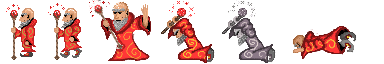
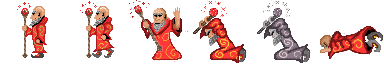
Some Updates

diff --git a/dist/bundle.js b/dist/bundle.js
@@ -112,12 +112,8 @@ class Character {
       return this.walkForward(index)
     }else if(this.job === "knight"){
       return [0, 0, 48, 64, this.ctx.width * 0.85, this.ctx.height * heightFloat + this.ctx.height * 0.3]
-    }else if(this.job === "cleric"){
-      return [0, 0, 47, 64, this.ctx.width * 0.85, this.ctx.height * heightFloat + this.ctx.height * 0.3]
-    }else if(this.job === "archer"){
+    }else {
       return [0, 0, 64, 64, this.ctx.width * 0.85, this.ctx.height * heightFloat + this.ctx.height * 0.3]
-    }else if(this.job === "wizard"){
-      return [0, 0, 42, 64, this.ctx.width * 0.85, this.ctx.height * heightFloat + this.ctx.height * 0.3]
     }
   }
 
@@ -125,12 +121,8 @@ class Character {
     let heightFloat = this.spriteHeight(index)
     if(this.job === "knight"){
       return [48, 0, 48, 64, this.ctx.width * 0.75, this.ctx.height * heightFloat + this.ctx.height * 0.3]
-    }else if(this.job === "cleric"){
-      return [0, 0, 47* 2, 64, this.ctx.width * 0.75, this.ctx.height * heightFloat + this.ctx.height * 0.3]
-    }else if(this.job === "archer"){
+    }else {
       return [0, 0, 64* 2, 64, this.ctx.width * 0.75, this.ctx.height * heightFloat + this.ctx.height * 0.3]
-    }else if(this.job === "wizard"){
-      return [0, 0, 42 * 2, 64, this.ctx.width * 0.75, this.ctx.height * heightFloat + this.ctx.height * 0.3]
     }
   }
 
@@ -276,7 +268,7 @@ class GameRouter {
       this.game.start();
       requestAnimationFrame(this.gameAnimate.bind(this));
 
-    }else if(selection.innerText === "How To Play"){ 
+    }else if(selection.innerText === "How To Play"){
       const menu = new _menu__WEBPACK_IMPORTED_MODULE_0__["default"]("")
       this.tutorial.start(menu)
     }

diff --git a/src/char.js b/src/char.js
@@ -14,12 +14,8 @@ export default class Character {
       return this.walkForward(index)
     }else if(this.job === "knight"){
       return [0, 0, 48, 64, this.ctx.width * 0.85, this.ctx.height * heightFloat + this.ctx.height * 0.3]
-    }else if(this.job === "cleric"){
-      return [0, 0, 47, 64, this.ctx.width * 0.85, this.ctx.height * heightFloat + this.ctx.height * 0.3]
-    }else if(this.job === "archer"){
+    }else {
       return [0, 0, 64, 64, this.ctx.width * 0.85, this.ctx.height * heightFloat + this.ctx.height * 0.3]
-    }else if(this.job === "wizard"){
-      return [0, 0, 42, 64, this.ctx.width * 0.85, this.ctx.height * heightFloat + this.ctx.height * 0.3]
     }
   }
 
@@ -27,12 +23,8 @@ export default class Character {
     let heightFloat = this.spriteHeight(index)
     if(this.job === "knight"){
       return [48, 0, 48, 64, this.ctx.width * 0.75, this.ctx.height * heightFloat + this.ctx.height * 0.3]
-    }else if(this.job === "cleric"){
-      return [0, 0, 47* 2, 64, this.ctx.width * 0.75, this.ctx.height * heightFloat + this.ctx.height * 0.3]
-    }else if(this.job === "archer"){
+    }else {
       return [0, 0, 64* 2, 64, this.ctx.width * 0.75, this.ctx.height * heightFloat + this.ctx.height * 0.3]
-    }else if(this.job === "wizard"){
-      return [0, 0, 42 * 2, 64, this.ctx.width * 0.75, this.ctx.height * heightFloat + this.ctx.height * 0.3]
     }
   }
 

diff --git a/src/game_view.js b/src/game_view.js
@@ -45,7 +45,7 @@ export default class GameRouter {
       this.game.start();
       requestAnimationFrame(this.gameAnimate.bind(this));
 
-    }else if(selection.innerText === "How To Play"){ 
+    }else if(selection.innerText === "How To Play"){
       const menu = new Menu("")
       this.tutorial.start(menu)
     }
